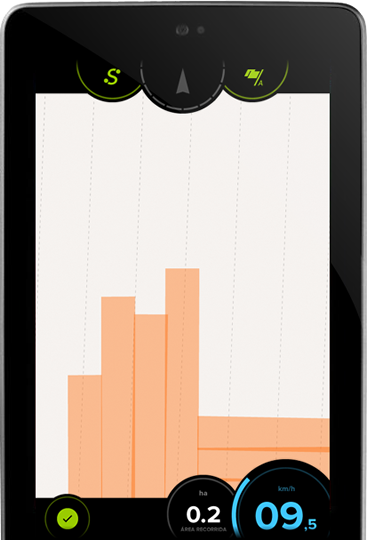
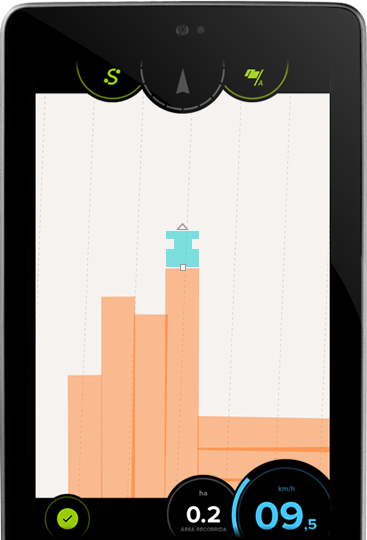
añadiendo el tractor a las imágenes del tablet de las intros

Changed region(s): [[0.4496, 0.4148, 0.5395, 0.5037]]

diff --git a/templates/home-gps.html b/templates/home-gps.html
@@ -71,7 +71,7 @@
       <div class="item">
 
         <img src="assets/images/content/testimonials/2.jpg">
-        <cite>“Desde que lo uso tengo gano un montón de tiempo</cite>
+        <cite>“Desde que lo uso, gano un montón de tiempo</cite>
         <p>&mdash; Carlos, Alaejos &mdash;</p>
 
       </div>
